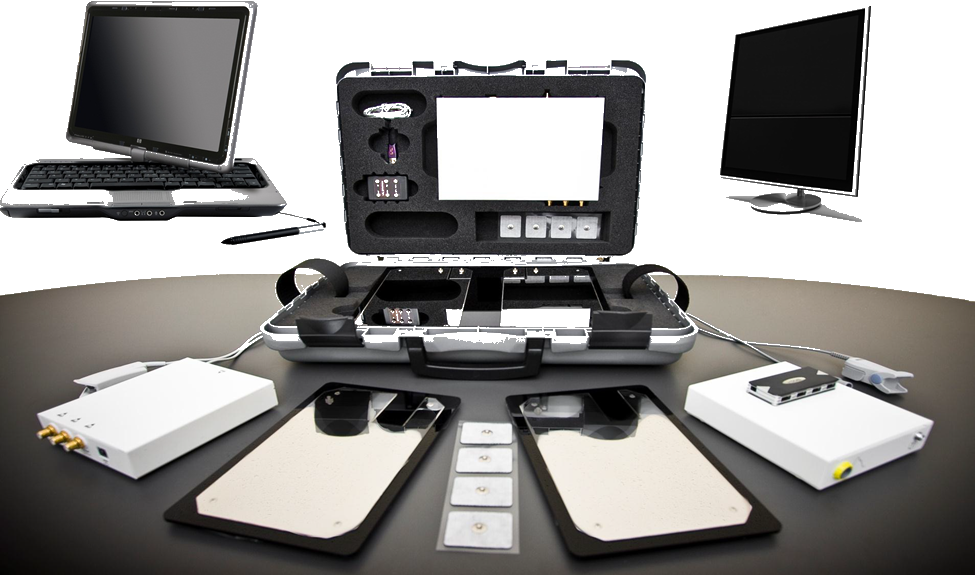
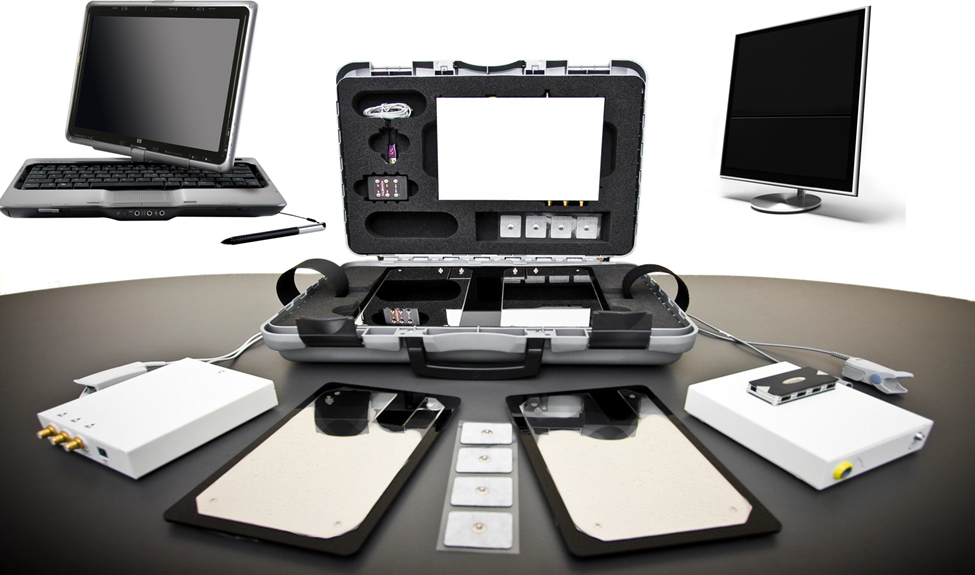
fix(assets): restaurar fondo blanco de estudio original completo y recortar 6px de margen blanco izquierdo

diff --git a/servicios/es-complex.html b/servicios/es-complex.html
@@ -125,7 +125,7 @@
         
         <!-- Main Content -->
         <article class="subpage-content">
-          <img src="../assets/img/technology/es-complex.png?v=c1277ff8" alt="Sistema de Pre-diagnóstico Biointersticial ES-Complex en Vitametric CDMX" style="width: 100%; height: auto; display: block; border-radius: var(--radius-md); margin-bottom: 2.5rem; border: 1px solid var(--c-border); box-shadow: var(--shadow-md);" loading="eager" fetchpriority="high" decoding="async">
+          <img src="../assets/img/technology/es-complex.png?v=104e9eaf" alt="Sistema de Pre-diagnóstico Biointersticial ES-Complex en Vitametric CDMX" style="width: 100%; height: auto; display: block; border-radius: var(--radius-md); margin-bottom: 2.5rem; border: 1px solid var(--c-border); box-shadow: var(--shadow-md);" loading="eager" fetchpriority="high" decoding="async">
           
           <!-- Sección 1: Fundamento EIS -->
           <div class="rizo-micro-section rizo-micro-section--icon" style="margin-bottom: 2.75rem;">
